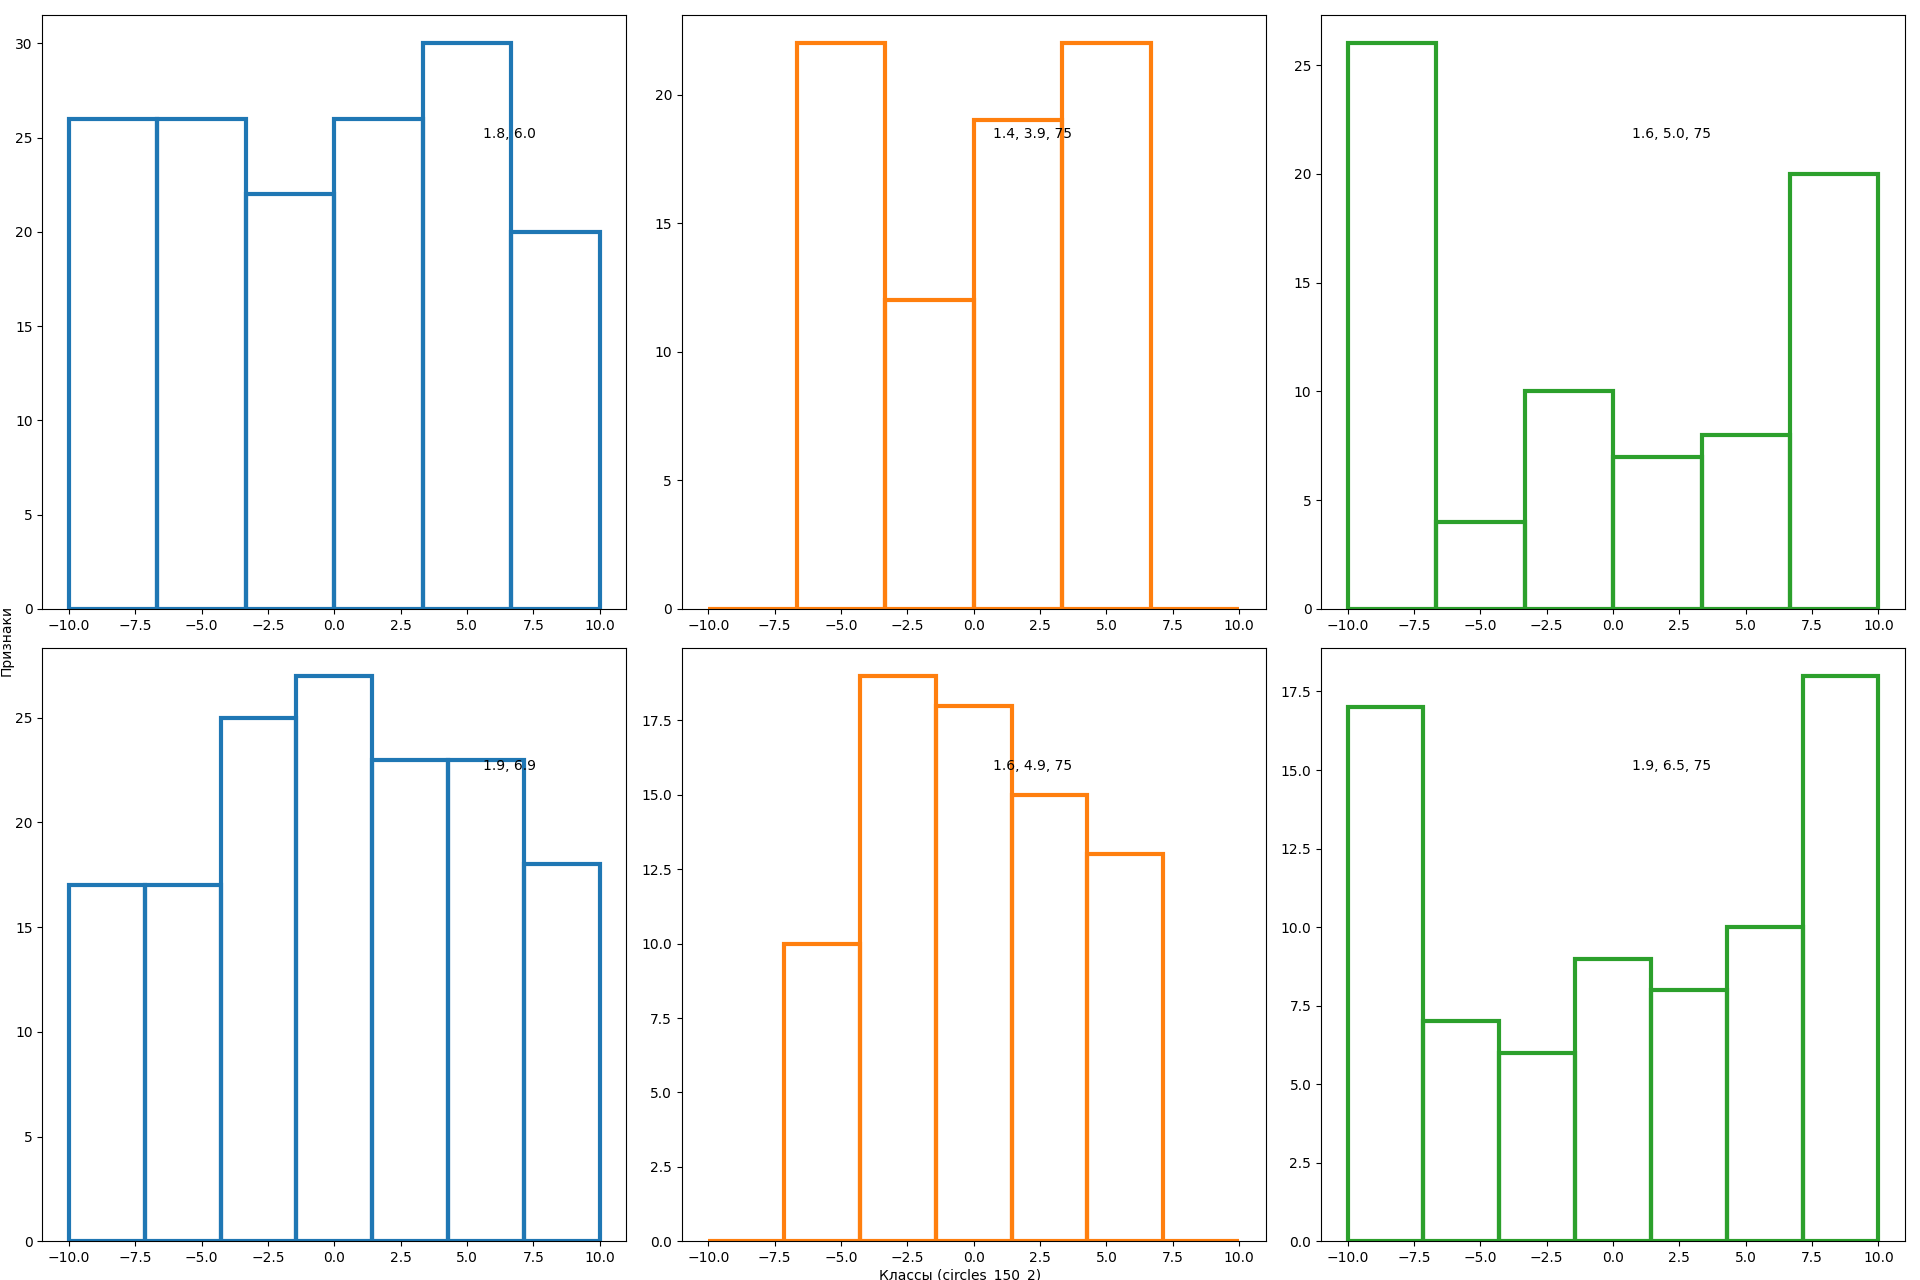
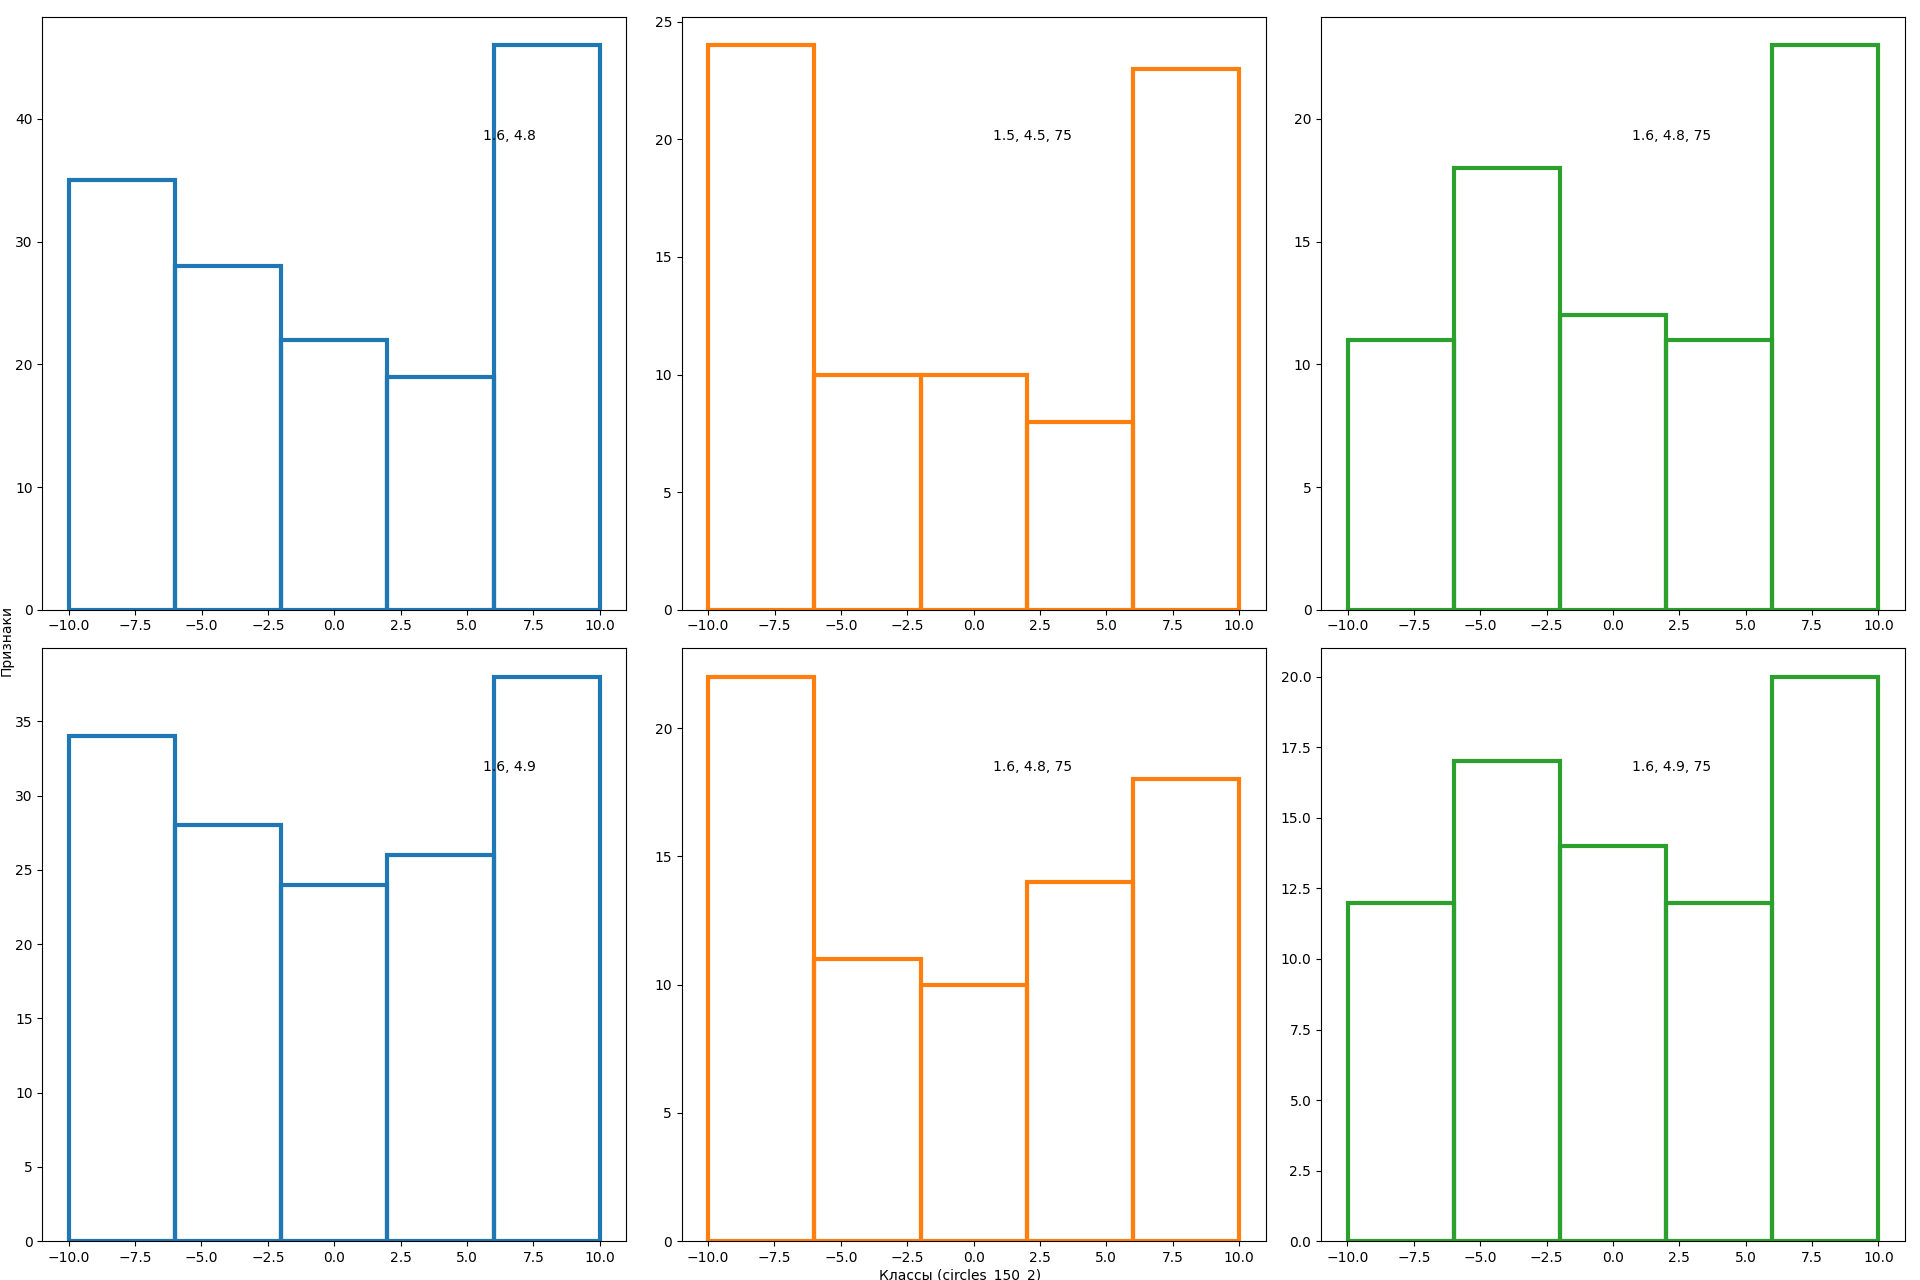
added entropy calculation

diff --git a/calcEntropy.py b/calcEntropy.py
@@ -22,7 +22,7 @@ def calcAndVisualize(dataSet, cl, binsPerFeature, taskName):
     nClasses = len(cl)
     nFeatures = dataSet.shape[1]
 
-    plt.figure()
+    figure = plt.figure()
     px = 1 / plt.rcParams['figure.dpi']
     fig, ax = plt.subplots(nFeatures, nClasses + 1, tight_layout=True, figsize=(1920 * px, 1280 * px))
 
@@ -54,7 +54,9 @@ def calcAndVisualize(dataSet, cl, binsPerFeature, taskName):
     fig.text(0, 0.5, 'Признаки', va='center', rotation='vertical')
 
     plt.savefig('{0}_{1}_{2}_histogramms.png'.format(taskName, nObjects, nFeatures), format='png')
-    plt.close()
+    plt.close(figure)
+
+    return
 
 def calcConditionalEntropy(dataSet, buckets, classIdx):
     nObjects = dataSet.shape[0]
@@ -93,7 +95,6 @@ def calcMultiVarianceEntropy(dataSet, objectBins):
     for iFeature in np.arange(nFeatures):
         objectBinsIndexes[:, iFeature] = np.digitize(dataSet[:, iFeature], objectBins[iFeature])
 
-    #objectBinsIndexes = 2 ** objectBinsIndexes
     bucketIdx = [''] * nObjects
 
     for iObject in np.arange(nObjects):
@@ -107,6 +108,8 @@ def calcMultiVarianceEntropy(dataSet, objectBins):
 def getOptimalBinsCount(dataSet):
     nFeatures = dataSet.shape[1]
     nObjects = dataSet.shape[0]
+
+    return np.ones(nFeatures, dtype=int) * 20
 
     bins = np.arange(nFeatures)
     for i in np.arange(nFeatures):
@@ -126,19 +129,127 @@ def getPermutation(target):
 
 def getClassesIndex(target):
     entries = np.unique(target)
+    classes = {}
 
     cl = []
     for iClass in np.arange(0, len(entries)):
         cl.append(np.where(target == entries[iClass])[0])
+        classes[entries[iClass]] = iClass
 
-    return cl
+    return {'classes':classes, 'classesIndexes':cl}
+
+
+def getDistribution(dataSet, objectBins):
+    nObjects = dataSet.shape[0]
+    nFeatures = dataSet.shape[1]
+
+    objectBinsIndexes = np.zeros((nObjects, nFeatures))
+
+    for iFeature in np.arange(nFeatures):
+        objectBinsIndexes[:, iFeature] = np.digitize(dataSet[:, iFeature], objectBins[iFeature])
+
+    bucketIdx = [''] * nObjects
+
+    for iObject in np.arange(nObjects):
+        bucketIdx[iObject] = ''.join(str(x) for x in objectBinsIndexes[iObject, :])
+
+    eBins, cBins = np.unique(bucketIdx, return_counts=True)
+
+    result = {}
+
+    if(sum(cBins) != nObjects):
+        raise Exception('Incorrect number of elements')
+
+    for iElement in np.arange(len(eBins)):
+        result[eBins[iElement]] = cBins[iElement]/nObjects
+
+    return result
+
+
+def calcComparisonConcrete(dataSet, objectBins, currentTrueClassIndex, comparingClassIndex, comparisonType):
+
+    trueDistribution = getDistribution(dataSet[currentTrueClassIndex, :], objectBins)
+    oppositeDistribution = getDistribution(dataSet[comparingClassIndex, :], objectBins)
+
+    binsKeys = list(trueDistribution.keys())
+
+    result = 0.0
+
+    for iBin in np.arange(len(binsKeys)):
+        bucket = binsKeys[iBin]
+        if bucket in oppositeDistribution:
+            if comparisonType == 'bc':
+                result += math.sqrt(trueDistribution[bucket] * oppositeDistribution[bucket])
+            elif comparisonType == 'ce':
+                result -= trueDistribution[bucket] * math.log(oppositeDistribution[bucket])
+            else:
+                raise Exception('Incorrect parameter: ' + comparisonType)
+    return result
+
+
+def calcComparison(dataSet, objectBins, trueClassIndex, regressionClassesIndex, comparisonType):
+    nObjects = dataSet.shape[0]
+
+    trueClasses = trueClassIndex['classes']
+    comparingClasses = regressionClassesIndex['classes']
+
+    trueClassesLables = list(trueClasses.keys())
+    resultComparison = 0.0
+
+    for iClass in np.arange(len(trueClassesLables)):
+        currentClass = trueClassesLables[iClass]
+        currentTrueClassIndex = trueClassIndex['classesIndexes'][trueClasses[currentClass]]
+        if currentClass in comparingClasses:
+            comparingClassIndex = regressionClassesIndex['classesIndexes'][comparingClasses[currentClass]]
+
+            cc = calcComparisonConcrete(dataSet, objectBins, currentTrueClassIndex, comparingClassIndex, comparisonType)
+            resultComparison += trueClasses[currentClass] / nObjects * cc
+        else:
+            pass
+
+    return resultComparison
+
+def SaveComparisonResults(bins, comparisonResults, mlResults, taskName, nObjects,
+                          nFeatures):
+
+    figure = plt.figure()
+    px = 1 / plt.rcParams['figure.dpi']
+    fig, ax = plt.subplots(2, 1, sharex=True, tight_layout=True, figsize=(1920 * px, 1280 * px))
+
+    permutations = comparisonResults.shape[1]
+    for iPermutation in np.arange(permutations):
+        color = 'C{0}'.format(iPermutation % 10)
+        ax[0].plot(bins, comparisonResults[:, iPermutation, 0], color)
+        ax[1].plot(bins, comparisonResults[:, iPermutation, 1], color)
+
+    ax[0].title.set_text('Comparison Bhattacharyya (new target to baseline)')
+    ax[0].grid()
+
+    markers = 'o*'
+    mlKeys = list(mlResults.keys())
+    for iKey in np.arange(len(mlKeys)):
+        ax[0].plot(bins, mlResults[mlKeys[iKey]][:, 0], 'C{0}:{1}'.format((iKey + 1) % 10, markers[iKey % 2]), linewidth=2,
+                   label=mlKeys[iKey])
+        ax[1].plot(bins, mlResults[mlKeys[iKey]][:, 1], 'C{0}:{1}'.format((iKey + 1) % 10, markers[iKey % 2]), linewidth=2,
+                   label=mlKeys[iKey])
+
+    ax[1].title.set_text('Comparison Cross entropy (new target to baseline)')
+    ax[1].grid()
+    ax[1].legend()
+    ax[0].legend()
+
+    plt.savefig('{0}_{1}_{2}_comparisons.png'.format(taskName, nObjects, nFeatures), format='png')
+    plt.close(fig)
+    plt.close(figure)
+
+    return
+
 
 def calculateAndVisualizeSeveralEntropies(dataSet, target, taskName):
-
     enc = LabelEncoder()
-    target = enc.fit_transform(target)
+    target = enc.fit_transform(np.ravel(target))
 
-    permutations = 20
+    permutations = 50
     print('Starting task: {0}'.format(taskName))
 
     nFeatures = dataSet.shape[1]
@@ -146,28 +257,43 @@ def calculateAndVisualizeSeveralEntropies(dataSet, target, taskName):
 
     entries, counts = np.unique(target, return_counts=True)
 
-    cl = []
-    for iClass in np.arange(0, len(entries)):
-        cl.append(np.where(target == entries[iClass])[0])
+    cl = getClassesIndex(target)
 
     upperBins = getOptimalBinsCount(dataSet)
     bins = np.arange(2, max(upperBins) + 1)
 
     simple = np.zeros(len(bins), dtype=float)
-    conditional = np.zeros((len(bins), permutations + 1), dtype=float)
     multiEntropy = np.zeros(len(bins), dtype=float)
+
+    conditional = np.zeros((len(bins), permutations + 1), dtype=float)
     multiConditionalEntropy = np.zeros((len(bins), permutations + 1), dtype=float)
     efficiency = np.zeros((len(bins), permutations + 1), dtype=float)
+
     logitResults = np.zeros(len(bins), dtype=float)
     xgboostResults = np.zeros(len(bins), dtype=float)
 
+    #по числу разбиений, по числу перестановок, 2 - Bhattacharyya, Cross-Entropy
+    comparisonResults = np.zeros((len(bins), permutations, 2), dtype=float)
+    logitComparisonResults = np.zeros((len(bins), 2))
+    xgBoostComparisonResults = np.zeros((len(bins), 2))
+
     ct = 0.0
-    for iClass in np.arange(len(cl)):
-        ct += math.log(len(cl[iClass])) * len(cl[iClass]) / nObjects
+    ccl = cl['classesIndexes']
+    for iClass in np.arange(len(ccl)):
+        ct += math.log(len(ccl[iClass])) * len(ccl[iClass]) / nObjects
+
+    print('Training logit...')
+    regressionTarget = TrainLogit(dataSet, target)
+    regressionAccuracy = accuracy_score(target, regressionTarget)
+    regressionClassesIndex = getClassesIndex(regressionTarget)
+
+    print('Training xgboost...')
+    xgBoostTarget = TrainXGBoost(dataSet, target)
+    xgBoostAccuracy = accuracy_score(target, xgBoostTarget)
+    xbBoostClassesIndex = getClassesIndex(xgBoostTarget)
 
     for iBins in np.arange(len(bins)):
-        if (bins[iBins] %10 == 0):
-            print('{2}: {0} of {1}'.format(bins[iBins], len(bins), taskName))
+        print('{2}: {0} of {1}'.format(iBins, len(bins), taskName))
 
         objectBins = []
         simpleEntropy = np.zeros(nFeatures + 1, dtype=float)
@@ -183,36 +309,28 @@ def calculateAndVisualizeSeveralEntropies(dataSet, target, taskName):
         simple[iBins] = sum(simpleEntropy)
         multiEntropy[iBins] = calcMultiVarianceEntropy(dataSet, objectBins)
 
-        conditional[iBins, 0] = calcConditionalEntropy(dataSet, objectBins, cl)
-        multiConditionalEntropy[iBins, 0] = calcConditionalMultiVarianceEntropy(dataSet, objectBins, cl)
+        conditional[iBins, 0] = calcConditionalEntropy(dataSet, objectBins, cl['classesIndexes'])
+        multiConditionalEntropy[iBins, 0] = calcConditionalMultiVarianceEntropy(dataSet, objectBins, cl['classesIndexes'])
         efficiency[iBins, 0] = conditional[iBins, 0] - multiConditionalEntropy[iBins, 0]
 
         for iPermutation in np.arange(1, permutations + 1):
             clPermutation = getPermutation(target)
 
-            conditional[iBins, iPermutation] = calcConditionalEntropy(dataSet, objectBins, clPermutation)
-            multiConditionalEntropy[iBins, iPermutation] = calcConditionalMultiVarianceEntropy(dataSet, objectBins, clPermutation)
+            conditional[iBins, iPermutation] = calcConditionalEntropy(dataSet, objectBins, clPermutation['classesIndexes'])
+            multiConditionalEntropy[iBins, iPermutation] = calcConditionalMultiVarianceEntropy(dataSet, objectBins, clPermutation['classesIndexes'])
             efficiency[iBins, iPermutation] = conditional[iBins, iPermutation] - multiConditionalEntropy[iBins, iPermutation]
 
-        #logregression
-        seed = 7
-        test_size = 0.25
-        X_train, X_test, y_train, y_test = train_test_split(dataSet, target, test_size=test_size, random_state=seed)
-        logit = LogisticRegression(random_state=0).fit(X_train, y_train)
-        regressionTarget = logit.predict(dataSet)
-        regressionClassesIndex = getClassesIndex(regressionTarget)
+            comparisonResults[iBins, iPermutation - 1, 0] = calcComparison(dataSet, objectBins, cl, clPermutation, 'bc')
+            comparisonResults[iBins, iPermutation - 1, 1] = calcComparison(dataSet, objectBins, cl, clPermutation, 'ce')
 
-        logitResults[iBins] = calcConditionalMultiVarianceEntropy(dataSet, objectBins, regressionClassesIndex)
+        logitResults[iBins] = calcConditionalMultiVarianceEntropy(dataSet, objectBins, regressionClassesIndex['classesIndexes'])
+        xgboostResults[iBins] = calcConditionalMultiVarianceEntropy(dataSet, objectBins, xbBoostClassesIndex['classesIndexes'])
 
-        #xgboost
-        seed = 7
-        test_size = 0.25
-        X_train, X_test, y_train, y_test = train_test_split(dataSet, target, test_size=test_size, random_state=seed)
+        logitComparisonResults[iBins, 0] = calcComparison(dataSet, objectBins, cl, regressionClassesIndex, 'bc')
+        logitComparisonResults[iBins, 1] = calcComparison(dataSet, objectBins, cl, regressionClassesIndex, 'ce')
 
-        model = XGBClassifier().fit(X_train, y_train)
-        xgBoostTarget = model.predict(dataSet)
-        xbBoostClassesIndex = getClassesIndex(xgBoostTarget)
-        xgboostResults[iBins] = calcConditionalMultiVarianceEntropy(dataSet, objectBins, xbBoostClassesIndex)
+        xgBoostComparisonResults[iBins, 0] = calcComparison(dataSet, objectBins, cl, xbBoostClassesIndex, 'bc')
+        xgBoostComparisonResults[iBins, 1] = calcComparison(dataSet, objectBins, cl, xbBoostClassesIndex, 'ce')
 
         if abs(multiConditionalEntropy[iBins, 0]/ct - 1) < 0.01:
             break
@@ -230,17 +348,38 @@ def calculateAndVisualizeSeveralEntropies(dataSet, target, taskName):
     logitResults = logitResults[idx]
     xgboostResults = xgboostResults[idx]
 
-    mlResults = {'logit': logitResults, 'xgBoost': xgboostResults}
+    comparisonResults = comparisonResults[idx, :, :]
+    logitComparisonResults = logitComparisonResults[idx, :]
+    xgBoostComparisonResults = xgBoostComparisonResults[idx, :]
 
+    mlResults = {'logit {0:1.2f}'.format(regressionAccuracy): logitResults, 'xgBoost {0:1.2f}'.format(xgBoostAccuracy): xgboostResults}
+    comparisonMLResults = {'logit {0:1.2f}'.format(regressionAccuracy): logitComparisonResults, 'xgBoost {0:1.2f}'.format(xgBoostAccuracy): xgBoostComparisonResults}
+
+    SaveComparisonResults(bins, comparisonResults, comparisonMLResults, taskName, nObjects, nFeatures)
     SaveEntropiesToFigure(bins, simple, conditional, multiEntropy, multiConditionalEntropy, efficiency, mlResults, taskName, nObjects, nFeatures, ct)
-    calcAndVisualize(dataSet, cl, upperBins, taskName)
+    calcAndVisualize(dataSet, cl['classesIndexes'], upperBins, taskName)
 
     return
 
+def TrainLogit(dataSet, target):
+    seed = 7
+    test_size = 0.25
+    X_train, X_test, y_train, y_test = train_test_split(dataSet, target, test_size=test_size, random_state=seed)
+    logit = LogisticRegression(random_state=0, max_iter=1000).fit(X_train, np.ravel(y_train))
+
+    return logit.predict(dataSet)
+
+def TrainXGBoost(dataSet, target):
+    seed = 7
+    test_size = 0.25
+    X_train, X_test, y_train, y_test = train_test_split(dataSet, target, test_size=test_size, random_state=seed)
+    model = XGBClassifier().fit(X_train, np.ravel(y_train))
+
+    return model.predict(dataSet)
+
 def SaveEntropiesToFigure(bins, simple, conditional, multiEntropy, multiConditionalEntropy, efficiency, mlResults, taskName, nObjects, nFeatures, ct):
 
-    plt.figure()
-    # binToDisplay = max(bins)
+    figure = plt.figure()
     px = 1 / plt.rcParams['figure.dpi']
     fig, ax = plt.subplots(3, 1, sharex=True, tight_layout=True, figsize=(1920 * px, 1280 * px))
 
@@ -267,14 +406,18 @@ def SaveEntropiesToFigure(bins, simple, conditional, multiEntropy, multiConditio
     ax[2].plot(bins, multiEntropy, 'C0--', linewidth=2)
     ax[2].plot(bins, multiConditionalEntropy[:, 0], 'C0-.', linewidth=3)
 
+    markers = 'o*'
     mlKeys = list(mlResults.keys())
     for iKey in np.arange(len(mlKeys)):
-        ax[2].plot(bins, mlResults[mlKeys[iKey]], 'C0:', linewidth=2, label=mlKeys[iKey])
+        ax[2].plot(bins, mlResults[mlKeys[iKey]], 'C{0}:{1}'.format((iKey + 1) % 10, markers[iKey%2]), linewidth=2, label=mlKeys[iKey])
 
     ax[2].text(bins[0], 2 / 3 * max(multiEntropy) + 1 / 3 * multiEntropy[0], 'Upper: {0:3.2f}'.format(ct))
     ax[2].title.set_text('Simple and conditional multi entropy')
     ax[2].grid()
+    ax[2].legend()
 
     plt.savefig('{0}_{1}_{2}_entropies.png'.format(taskName, nObjects, nFeatures), format='png')
+    plt.close(fig)
+    plt.close(figure)
 
     return

diff --git a/main.py b/main.py
@@ -1,29 +1,25 @@
 import math
-
 import pandas as pd
-
 from calcEntropy import calculateAndVisualizeSeveralEntropies
 from ucimlrepo import fetch_ucirepo
-from scipy.stats import norm, entropy
-import plotly.express as px
-
-import pandas
-import matplotlib.pyplot as plt
-from pandas.plotting import parallel_coordinates
-
 import numpy as np
 
-def showCircles(elements):
+def showCircles(elements, nClasses):
     dataSet = np.zeros((elements, 2))
     target = np.zeros(elements)
+    bucket = math.floor(elements / nClasses)
+    currentClass = 0;
 
     for i in np.arange(elements):
-        radious = (10 if i >= elements / 2 else 5)
+        if math.floor(i / bucket) > currentClass:
+            currentClass += 1
+
+        radious = (10 - currentClass * (10 - 5) / nClasses)
 
         value = np.random.uniform(0, 1)
         dataSet[i, 0] = radious * math.cos(value * 2*math.pi)
         dataSet[i, 1] = radious * math.sin(value * 2*math.pi)
-        target[i] = 1 if i >= elements / 2 else -1
+        target[i] = currentClass%2
 
     calculateAndVisualizeSeveralEntropies(dataSet, target, 'circles')
 
@@ -64,16 +60,19 @@ def showRandom(elements, features):
 def showTaskFromUciById(id):
     # fetch dataset
     set = fetch_ucirepo(id=id)
-    y = set.data.targets
 
     dataSet = np.array(set.data.features)
-    calculateAndVisualizeSeveralEntropies(dataSet, y, set.metadata.name)
+    target = np.array(set.data.targets)
+
+    calculateAndVisualizeSeveralEntropies(dataSet, target, set.metadata.name)
 
 showRandom(150, 2)
-showCircles(150)
-showCircles(1500)
+showCircles(150, 2)
+showCircles(1500, 2)
+showCircles(154, 4)
+showCircles(1504, 4)
 showTaskFromUciById(53) #iris
-showTaskFromUciById(602) #dry bean
 showTaskFromUciById(186) #wine quality
-#showTaskFromUciById(17) #breast cancer wisconsin
-#showTaskFromUciById(54) #isolet
+showTaskFromUciById(17) #breast cancer wisconsin
+showTaskFromUciById(602) #dry bean
+showTaskFromUciById(54) #isolet
